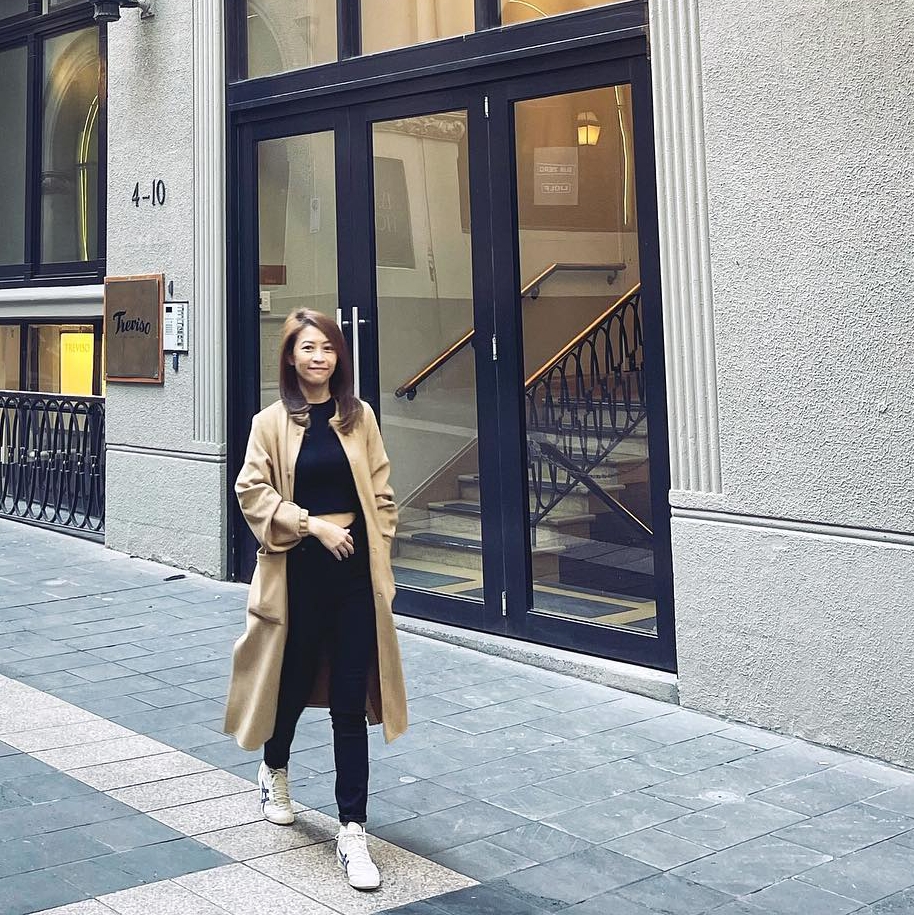
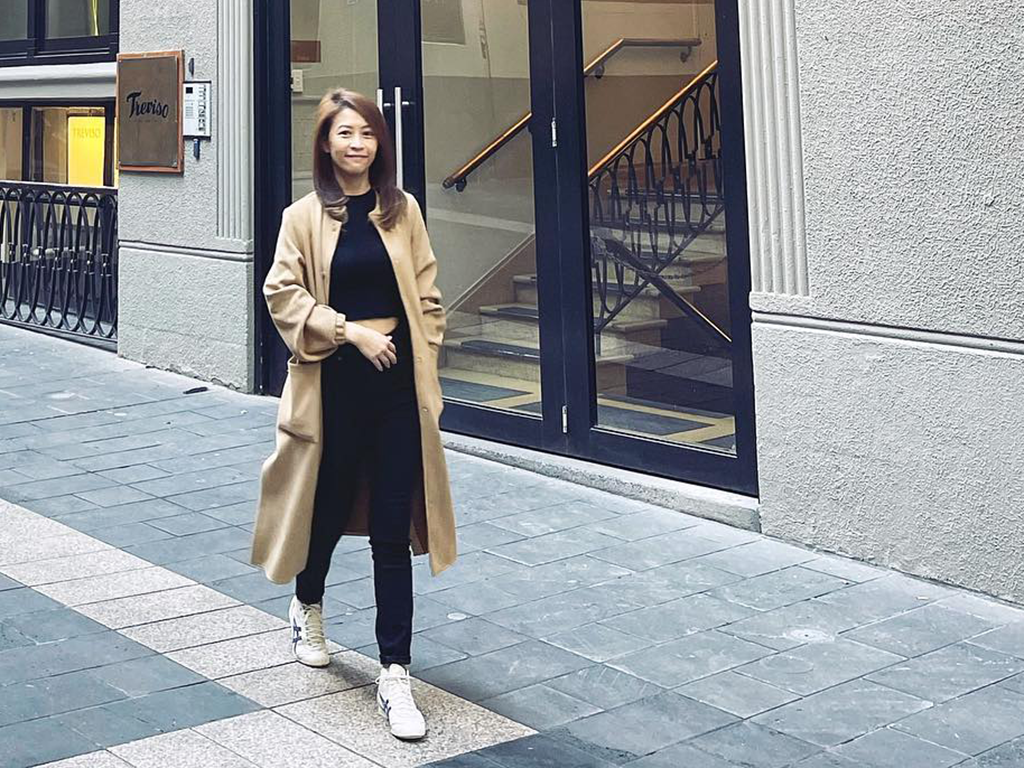
Fixed the image
fixed image height

diff --git a/index.html b/index.html
@@ -22,7 +22,7 @@
         <div id="heroArea" class="imageSection"></div>
     </section>
     <section class="heroImg">
-        <img src="images/gib_pic.png" alt="aboutme" width="350" height="300" >
+        <img src="images/gib_pic.png" alt="aboutme" width="350" height="250" >
         <div class="content">
             <h1>About Me</h1>
             <p>
